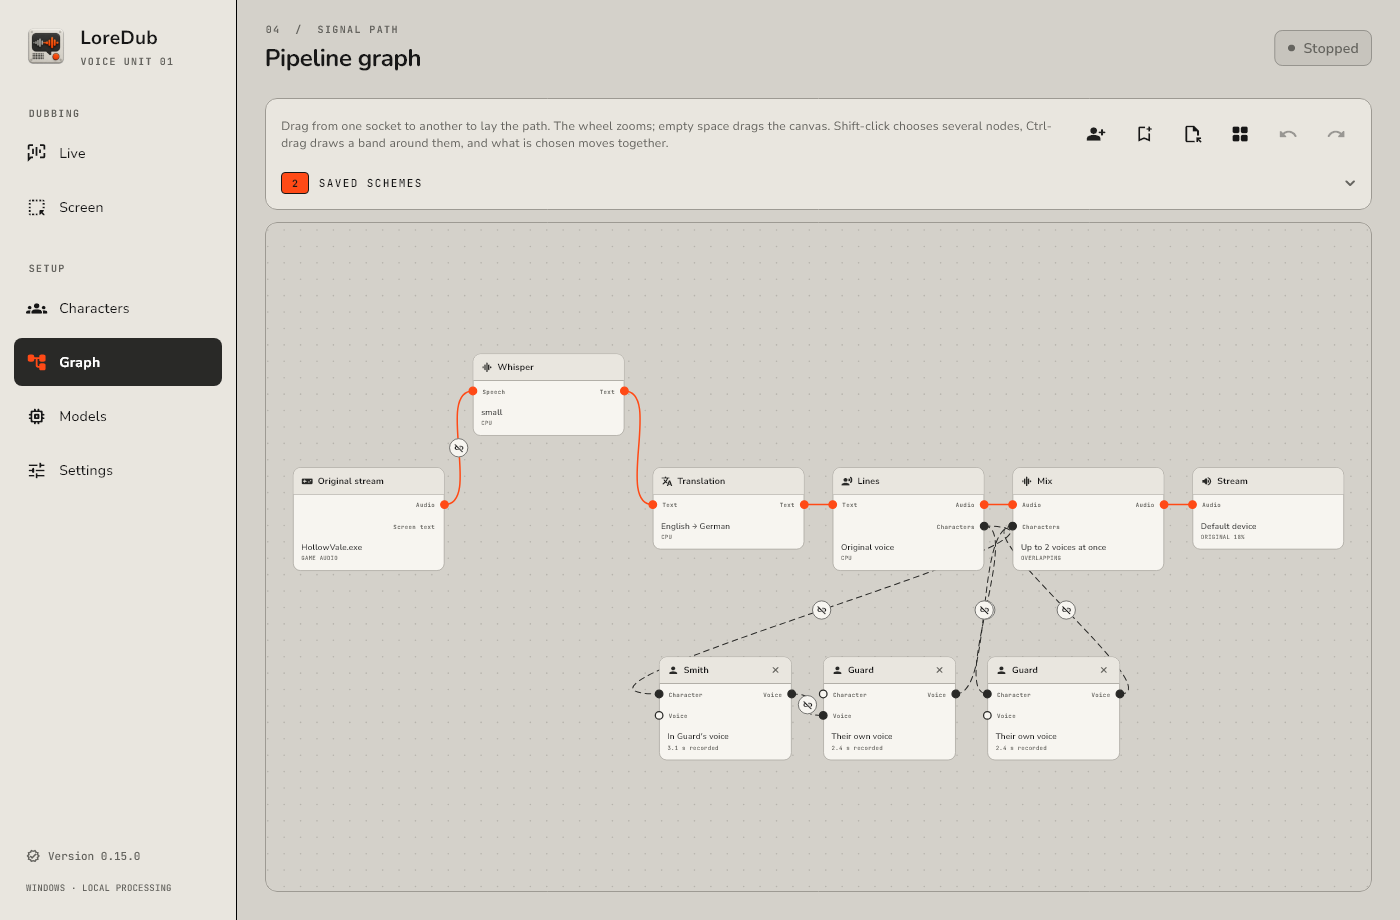
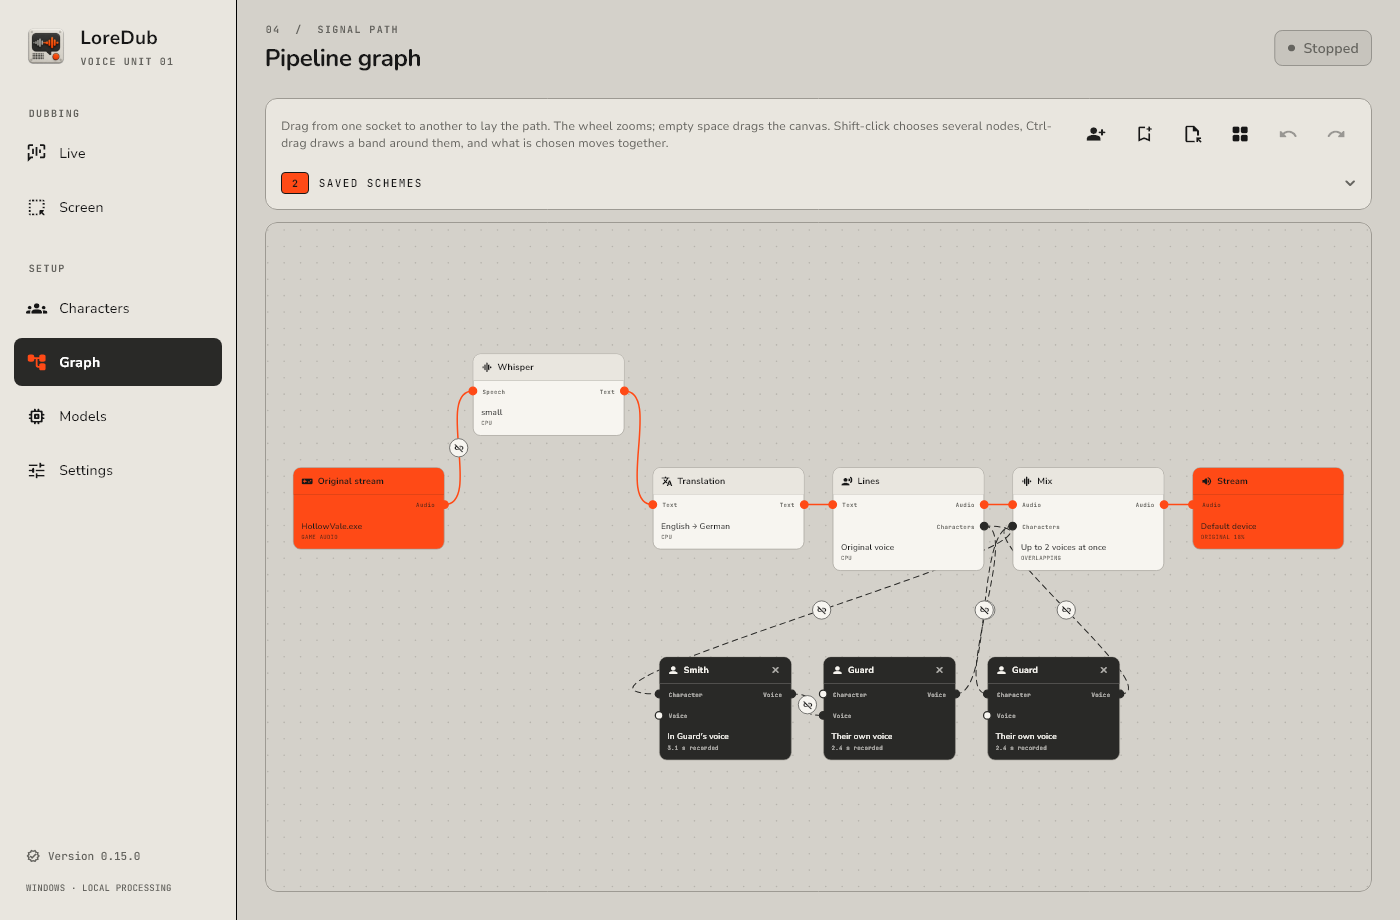
feat: paint the ends of the pipeline orange and the cast dark
The canvas drew every node the same raised face, so where the sound comes
in and where the dubbing leaves had to be read to be found, and the
player's own cards -- which are not stages at all -- looked like four
more of them.

The two ends are orange now and a card is graphite, the way the open
section is drawn in the navigation. What is written on a node takes its
colour from the face under it, so the orange carries dark text and the
dark carries light; a chosen orange node is marked in ink, orange on
orange being no mark at all.

The source node also drops the "Текст с экрана" label: that socket left
with the subtitle route, and the row had stayed behind with no dot on it.

Changed region(s): [[0.4607, 0.7, 0.7986, 0.8522], [0.1843, 0.487, 0.3379, 0.6391], [0.8293, 0.487, 0.9829, 0.6087]]

diff --git a/lib/src/ui/dashboard/pipeline_canvas.dart b/lib/src/ui/dashboard/pipeline_canvas.dart
@@ -39,10 +39,7 @@ abstract final class NodeMetrics {
 
   /// How many port rows a node of this kind has.
   static int rowsOf(PipelineNodeKind kind) => switch (kind) {
-    PipelineNodeKind.source ||
-    PipelineNodeKind.voice ||
-    PipelineNodeKind.mix ||
-    PipelineNodeKind.character => 2,
+    PipelineNodeKind.voice || PipelineNodeKind.mix || PipelineNodeKind.character => 2,
     _ => 1,
   };
 
@@ -777,10 +774,10 @@ class _NodeCard extends StatelessWidget {
           opacity: node.unrouted ? 0.55 : 1,
           child: Container(
             decoration: BoxDecoration(
-              color: LoreDubPalette.raised,
+              color: _paint.body,
               borderRadius: BorderRadius.circular(12),
               border: Border.all(
-                color: selected ? LoreDubPalette.orange : LoreDubPalette.outline,
+                color: selected ? _paint.chosen : LoreDubPalette.outline,
                 width: selected ? 2 : 1,
               ),
               boxShadow: selected
@@ -810,21 +807,21 @@ class _NodeCard extends StatelessWidget {
   Widget _header(BuildContext context, AppLocalizations l10n) => Container(
     height: NodeMetrics.headerHeight,
     padding: const EdgeInsets.symmetric(horizontal: 12),
-    decoration: const BoxDecoration(
-      color: LoreDubPalette.panel,
-      borderRadius: BorderRadius.vertical(top: Radius.circular(11)),
-      border: Border(bottom: BorderSide(color: LoreDubPalette.outline)),
+    decoration: BoxDecoration(
+      color: _paint.header,
+      borderRadius: const BorderRadius.vertical(top: Radius.circular(11)),
+      border: Border(bottom: BorderSide(color: _paint.muted.withValues(alpha: 0.25))),
     ),
     child: Row(
       children: [
-        Icon(_icon, size: 18, color: LoreDubPalette.graphite),
+        Icon(_icon, size: 18, color: _paint.ink),
         const SizedBox(width: 8),
         Expanded(
           child: Text(
             _title(l10n),
             maxLines: 1,
             overflow: TextOverflow.ellipsis,
-            style: const TextStyle(fontSize: 14, fontWeight: FontWeight.w700),
+            style: TextStyle(fontSize: 14, fontWeight: FontWeight.w700, color: _paint.ink),
           ),
         ),
         if (onRemove case final remove?)
@@ -837,7 +834,7 @@ class _NodeCard extends StatelessWidget {
               padding: EdgeInsets.zero,
               iconSize: 16,
               tooltip: l10n.pipelineRemoveNode,
-              color: LoreDubPalette.mutedInk,
+              color: _paint.muted,
               icon: const Icon(Icons.close_rounded),
               onPressed: remove,
             ),
@@ -845,12 +842,12 @@ class _NodeCard extends StatelessWidget {
         if (node.unrouted)
           Text(
             l10n.pipelineUnrouted.toUpperCase(),
-            style: const TextStyle(
+            style: TextStyle(
               fontFamily: LoreDubFonts.mono,
               fontSize: 8,
               fontWeight: FontWeight.w700,
               letterSpacing: 0.8,
-              color: LoreDubPalette.mutedInk,
+              color: _paint.muted,
             ),
           ),
       ],
@@ -860,27 +857,26 @@ class _NodeCard extends StatelessWidget {
   /// One row per port row, labelled on the side its socket is on.
   List<Widget> _rows(AppLocalizations l10n) => switch (node.kind) {
     PipelineNodeKind.source => [
-      _PortRow(right: l10n.pipelineSocketGameAudio),
-      _PortRow(right: l10n.pipelineSocketScreenText),
+      _PortRow(paint: _paint, right: l10n.pipelineSocketGameAudio),
     ],
     PipelineNodeKind.recognition => [
-      _PortRow(left: l10n.pipelineSocketSpeech, right: l10n.pipelineSocketText),
+      _PortRow(paint: _paint, left: l10n.pipelineSocketSpeech, right: l10n.pipelineSocketText),
     ],
     PipelineNodeKind.translation => [
-      _PortRow(left: l10n.pipelineSocketText, right: l10n.pipelineSocketText),
+      _PortRow(paint: _paint, left: l10n.pipelineSocketText, right: l10n.pipelineSocketText),
     ],
     PipelineNodeKind.voice => [
-      _PortRow(left: l10n.pipelineSocketText, right: l10n.pipelineSocketAudio),
-      _PortRow(right: l10n.pipelineSocketCast),
+      _PortRow(paint: _paint, left: l10n.pipelineSocketText, right: l10n.pipelineSocketAudio),
+      _PortRow(paint: _paint, right: l10n.pipelineSocketCast),
     ],
     PipelineNodeKind.mix => [
-      _PortRow(left: l10n.pipelineSocketAudio, right: l10n.pipelineSocketAudio),
-      _PortRow(left: l10n.pipelineSocketCast),
+      _PortRow(paint: _paint, left: l10n.pipelineSocketAudio, right: l10n.pipelineSocketAudio),
+      _PortRow(paint: _paint, left: l10n.pipelineSocketCast),
     ],
-    PipelineNodeKind.output => [_PortRow(left: l10n.pipelineSocketAudio)],
+    PipelineNodeKind.output => [_PortRow(paint: _paint, left: l10n.pipelineSocketAudio)],
     PipelineNodeKind.character => [
-      _PortRow(left: l10n.pipelineSocketCharacter, right: l10n.pipelineSocketVoice),
-      _PortRow(left: l10n.pipelineSocketVoice),
+      _PortRow(paint: _paint, left: l10n.pipelineSocketCharacter, right: l10n.pipelineSocketVoice),
+      _PortRow(paint: _paint, left: l10n.pipelineSocketVoice),
     ],
   };
 
@@ -894,25 +890,36 @@ class _NodeCard extends StatelessWidget {
           _headline(context, l10n),
           maxLines: 1,
           overflow: TextOverflow.ellipsis,
-          style: const TextStyle(fontSize: 13, height: 1.25, fontWeight: FontWeight.w600),
+          style: TextStyle(
+            fontSize: 13,
+            height: 1.25,
+            fontWeight: FontWeight.w600,
+            color: _paint.ink,
+          ),
         ),
         const SizedBox(height: 3),
         Text(
           _note(context, l10n),
           maxLines: 1,
           overflow: TextOverflow.ellipsis,
-          style: const TextStyle(
+          style: TextStyle(
             fontFamily: LoreDubFonts.mono,
             fontSize: 9,
             height: 1.2,
             fontWeight: FontWeight.w500,
             letterSpacing: 0.4,
-            color: LoreDubPalette.mutedInk,
+            color: _paint.muted,
           ),
         ),
       ],
     ),
   );
+
+  _NodePaint get _paint => switch (node.kind) {
+    PipelineNodeKind.source || PipelineNodeKind.output => _NodePaint.ends,
+    PipelineNodeKind.character => _NodePaint.cast,
+    _ => _NodePaint.plain,
+  };
 
   IconData get _icon => switch (node.kind) {
     PipelineNodeKind.source => Icons.videogame_asset_rounded,
@@ -1014,9 +1021,63 @@ class _NodeCard extends StatelessWidget {
 }
 
 /// A row of the card that a socket sits on, labelled towards its own edge.
-class _PortRow extends StatelessWidget {
-  const _PortRow({this.left, this.right});
+/// What one node is drawn in.
+///
+/// The two ends of the pipeline are orange -- where the game's sound comes
+/// in and where the dubbing leaves -- so the eye finds them without reading
+/// them, and a card of the cast is dark, the way the open section is drawn
+/// in the navigation. Everything between them keeps the raised face the
+/// model tiles use, and only what is written on a node changes with the
+/// face under it.
+class _NodePaint {
+  const _NodePaint({
+    required this.body,
+    required this.header,
+    required this.ink,
+    required this.muted,
+    required this.chosen,
+  });
 
+  static const plain = _NodePaint(
+    body: LoreDubPalette.raised,
+    header: LoreDubPalette.panel,
+    ink: LoreDubPalette.ink,
+    muted: LoreDubPalette.mutedInk,
+    chosen: LoreDubPalette.orange,
+  );
+
+  static const ends = _NodePaint(
+    body: LoreDubPalette.orange,
+    header: LoreDubPalette.orange,
+    ink: LoreDubPalette.ink,
+    // The orange carries a darker shade of its own text rather than the
+    // grey of the panels, which it swallows.
+    muted: Color(0xCC171717),
+    chosen: LoreDubPalette.ink,
+  );
+
+  static const cast = _NodePaint(
+    body: LoreDubPalette.graphite,
+    header: LoreDubPalette.graphite,
+    ink: LoreDubPalette.raised,
+    muted: Color(0xAAF7F5F0),
+    chosen: LoreDubPalette.orange,
+  );
+
+  final Color body;
+  final Color header;
+  final Color ink;
+  final Color muted;
+
+  /// The border of a node the pointer has chosen. Orange on the orange ends
+  /// would be no mark at all.
+  final Color chosen;
+}
+
+class _PortRow extends StatelessWidget {
+  const _PortRow({required this.paint, this.left, this.right});
+
+  final _NodePaint paint;
   final String? left;
   final String? right;
 
@@ -1040,12 +1101,12 @@ class _PortRow extends StatelessWidget {
     textAlign: align,
     maxLines: 1,
     overflow: TextOverflow.ellipsis,
-    style: const TextStyle(
+    style: TextStyle(
       fontFamily: LoreDubFonts.mono,
       fontSize: 9,
       fontWeight: FontWeight.w700,
       letterSpacing: 0.6,
-      color: LoreDubPalette.mutedInk,
+      color: paint.muted,
     ),
   );
 }

diff --git a/lib/l10n/app_localizations.dart b/lib/l10n/app_localizations.dart
@@ -2907,12 +2907,6 @@ abstract class AppLocalizations {
   /// **'Звук'**
   String get pipelineSocketGameAudio;
 
-  /// No description provided for @pipelineSocketScreenText.
-  ///
-  /// In ru, this message translates to:
-  /// **'Текст с экрана'**
-  String get pipelineSocketScreenText;
-
   /// No description provided for @pipelineSocketSpeech.
   ///
   /// In ru, this message translates to:

diff --git a/lib/l10n/app_localizations_ru.dart b/lib/l10n/app_localizations_ru.dart
@@ -1693,9 +1693,6 @@ class AppLocalizationsRu extends AppLocalizations {
   String get pipelineSocketGameAudio => 'Звук';
 
   @override
-  String get pipelineSocketScreenText => 'Текст с экрана';
-
-  @override
   String get pipelineSocketSpeech => 'Речь';
 
   @override

diff --git a/lib/l10n/app_localizations_en.dart b/lib/l10n/app_localizations_en.dart
@@ -1684,9 +1684,6 @@ class AppLocalizationsEn extends AppLocalizations {
   String get pipelineSocketGameAudio => 'Audio';
 
   @override
-  String get pipelineSocketScreenText => 'Screen text';
-
-  @override
   String get pipelineSocketSpeech => 'Speech';
 
   @override

diff --git a/CHANGELOG.md b/CHANGELOG.md
@@ -8,6 +8,16 @@
   только пока оно впереди; экран — целиком и всегда, и рамку тогда можно
   обвести где угодно. Это выход для игры, у которой обычного окна нет: процесс
   игры в этом режиме выбирать не обязательно — разве что чтобы приглушить её.
+- На «Схеме» концы конвейера — «Оригинальный поток» и «Поток» — теперь оранжевые,
+  а карточки персонажей — тёмные, как выбранный пункт в боковом списке. У ноды
+  «Оригинальный поток» заодно убрана подпись «Текст с экрана»: самого сокета нет
+  с тех пор, как чтение экрана ушло на свой экран.
+- Нода «Голос» переименована в «Реплики» — из неё выходят реплики, а «Голос» был тем же
+  словом, каким подписаны голоса на карточках. А панель карточки больше не предлагает
+  отдать голос тому, кого эта карточка уже озвучивает: холст такую связь всегда
+  отклонял, а панель позволяла.
+- На «Экране» в режиме «Весь экран» выбор игры заблокирован, а строка «Выберите
+  игру…» не показывается: читать экран целиком окно игры не нужно.
 - «Язык текста» на «Экране» больше не задевает «Эфир» и «Схему». Раньше это было одно
   поле с «Языком оригинала»: выбрали на одном экране русский — и схема на другом
   начинала рисовать перевод «Русский → Русский».
